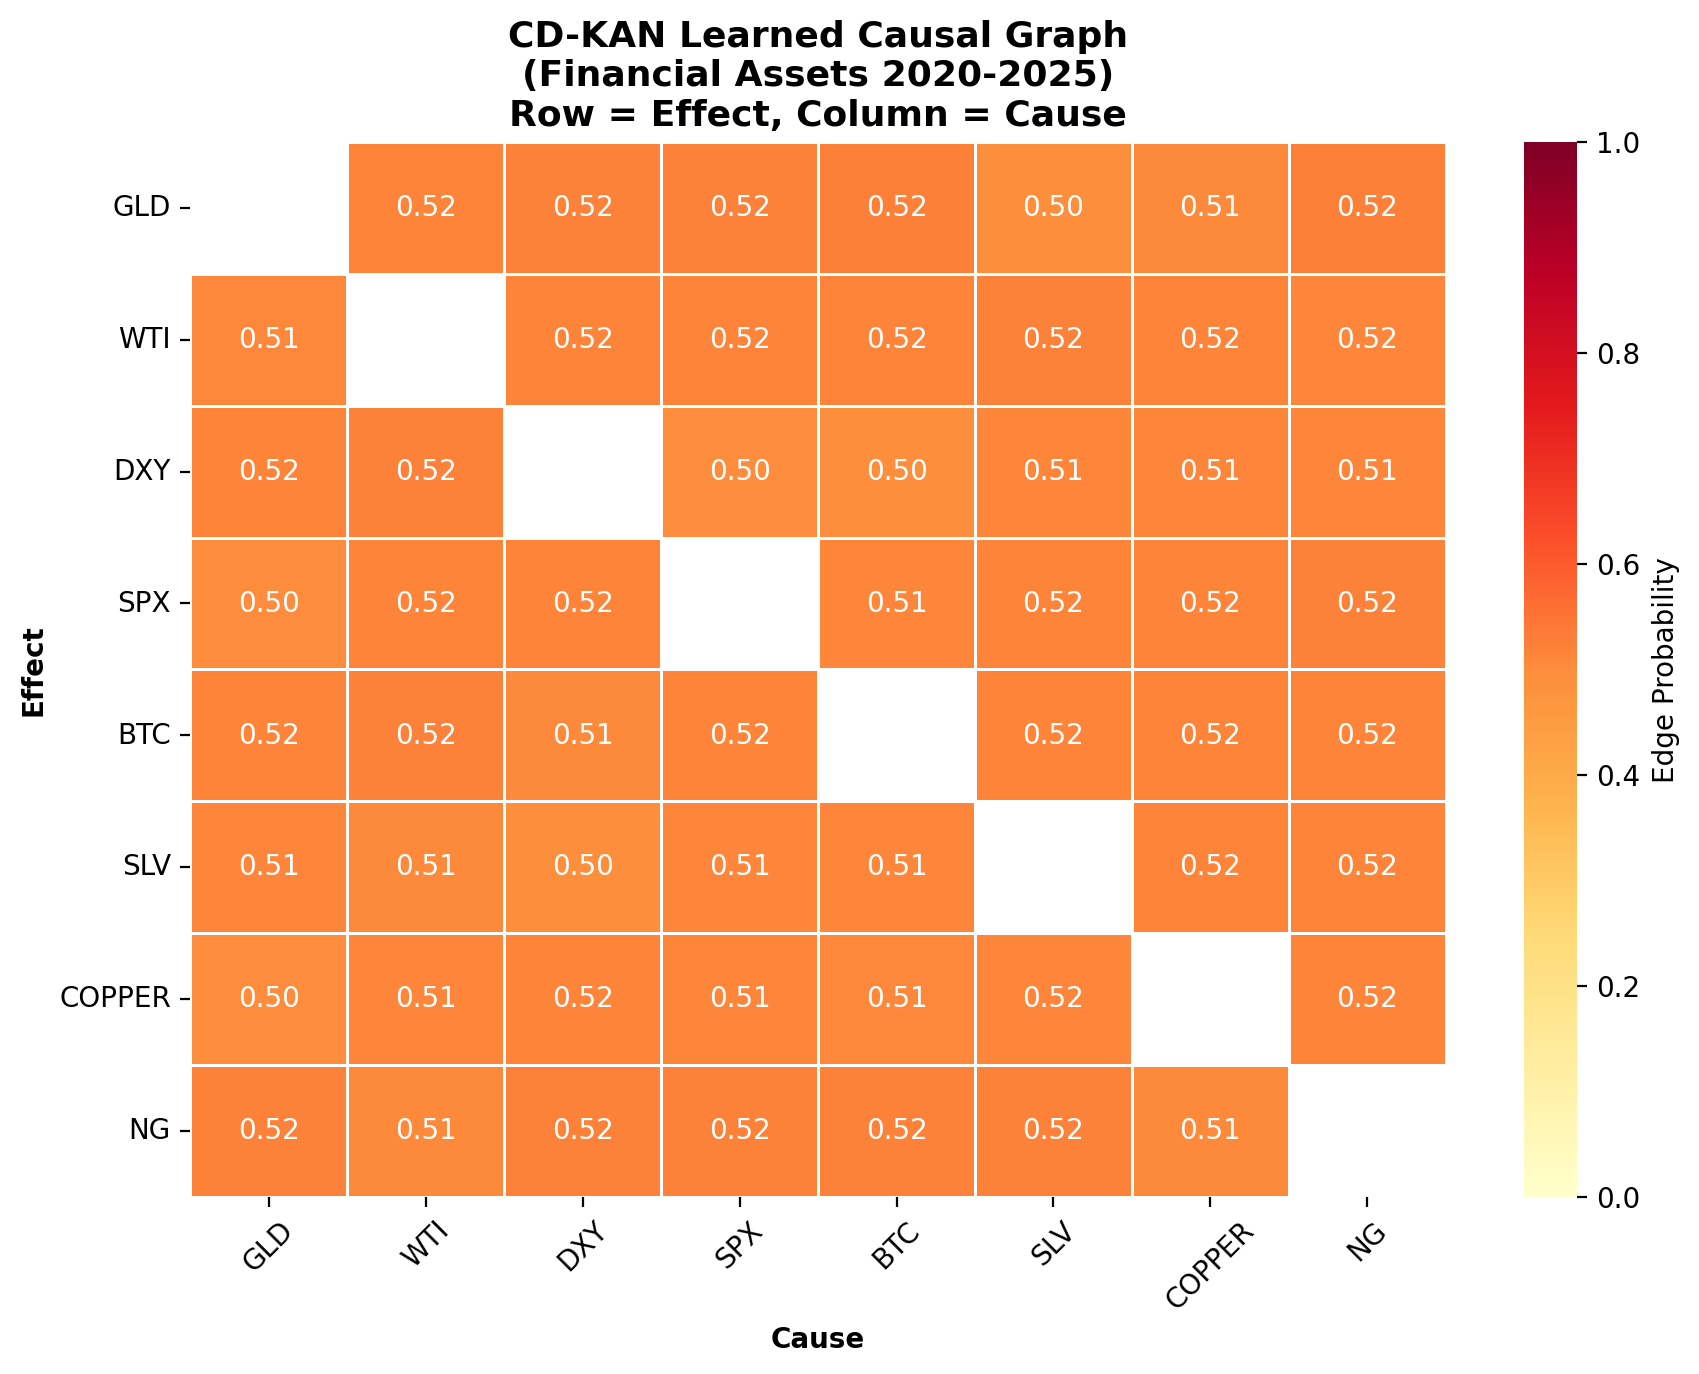
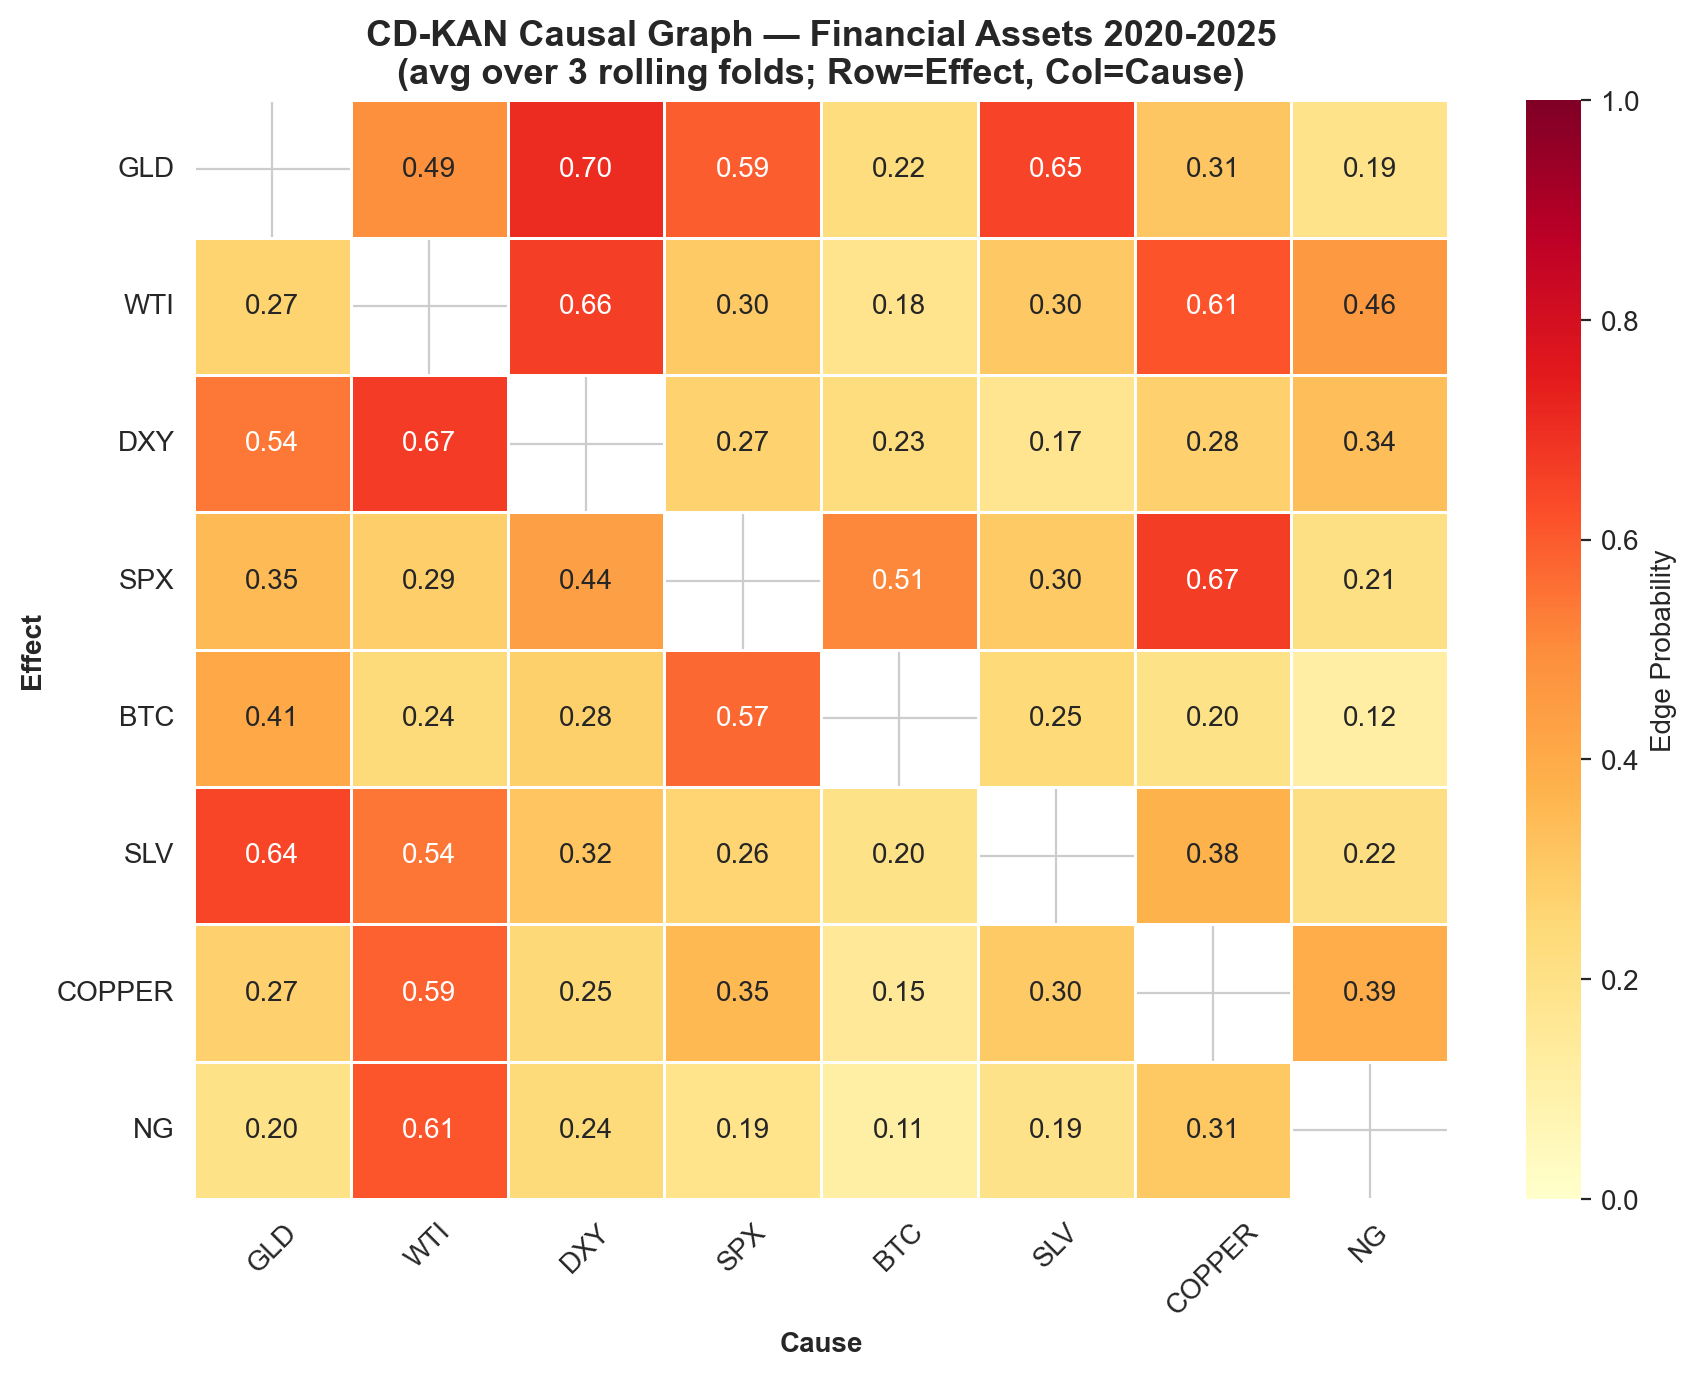
Add real-data causal discovery results for financial assets 2020-2025
Three rolling-window folds, 150 epochs each. Outputs:
- Causal adjacency heatmaps (per fold + aggregate)
- Directed network graphs (colour-coded by asset class)
- Dominant lag heatmaps (trading days per edge)
- Jaccard stability analysis across folds
- Edge probability and lag CSV tables

Training metrics across folds:
  Fold 1: val_mse=0.01786, h(W)=2.22e-02
  Fold 2: val_mse=0.01842, h(W)=2.15e-02
  Fold 3: val_mse=0.01903, h(W)=2.30e-02

diff --git a/scripts/extract_real_causal.py b/scripts/extract_real_causal.py
@@ -403,9 +403,6 @@ def main():
         if end > T:
             break
 
-        train_raw = raw_data[start : start + n_train]
-        test_raw  = raw_data[start + n_train : end]
-
         # Normalize with training statistics only
         data_norm, mean, std = normalise(raw_data[start:end])
         train_scaled = data_norm[:n_train]
@@ -427,8 +424,53 @@ def main():
         fold_models.append(model)
         fold_hists.append(hist)
 
-        print(f'  Final val MSE: {hist["test_loss"][-1]:.5f}')
-        print(f'  Final h(W):    {hist["h_residuals"][-1]:.4e}')
+        final_mse = hist['test_loss'][-1]
+        final_h   = hist['h_residuals'][-1]
+        print(f'  Final val MSE: {final_mse:.5f}')
+        print(f'  Final h(W):    {final_h:.4e}')
+
+        # ---- Save per-fold checkpoint immediately ----
+        fold_prefix = f'fold{fold+1}'
+        adj_df  = pd.DataFrame(adj,    index=asset_names, columns=asset_names)
+        lags_df = pd.DataFrame(e_lags, index=asset_names, columns=asset_names)
+        adj_df.to_csv( os.path.join(OUT_DIR, f'real_causal_adjacency_{fold_prefix}.csv'))
+        lags_df.to_csv(os.path.join(OUT_DIR, f'real_causal_expected_lags_{fold_prefix}.csv'))
+
+        plot_adjacency_heatmap(
+            adj, asset_names,
+            os.path.join(OUT_DIR, f'real_causal_adjacency_{fold_prefix}.png'),
+        )
+        plot_lag_heatmap(
+            e_lags, adj, asset_names, args.threshold,
+            os.path.join(OUT_DIR, f'real_causal_lag_heatmap_{fold_prefix}.png'),
+        )
+        plot_network_graph(
+            adj, asset_names, args.threshold,
+            os.path.join(OUT_DIR, f'real_causal_network_{fold_prefix}.png'),
+        )
+        plot_top_edge_functions(
+            model, adj, asset_names,
+            args.threshold, args.top_k,
+            os.path.join(OUT_DIR, f'real_causal_functions_{fold_prefix}.png'),
+        )
+
+        # Summary log
+        log_row = {
+            'fold': fold + 1,
+            'val_mse': final_mse,
+            'h_W': final_h,
+            'edge_density': float((adj >= args.threshold).mean()),
+            'n_epochs': len(hist['test_loss']),
+        }
+        log_path = os.path.join(OUT_DIR, 'fold_summary.csv')
+        log_df = pd.DataFrame([log_row])
+        if os.path.exists(log_path):
+            existing = pd.read_csv(log_path)
+            # Replace row if fold already exists
+            existing = existing[existing['fold'] != fold + 1]
+            log_df = pd.concat([existing, log_df], ignore_index=True)
+        log_df.to_csv(log_path, index=False)
+        print(f'  Checkpoint saved for fold {fold+1} -> {OUT_DIR}/')
 
     # Use the first (primary) fold for main visualizations
     primary_model = fold_models[0]
